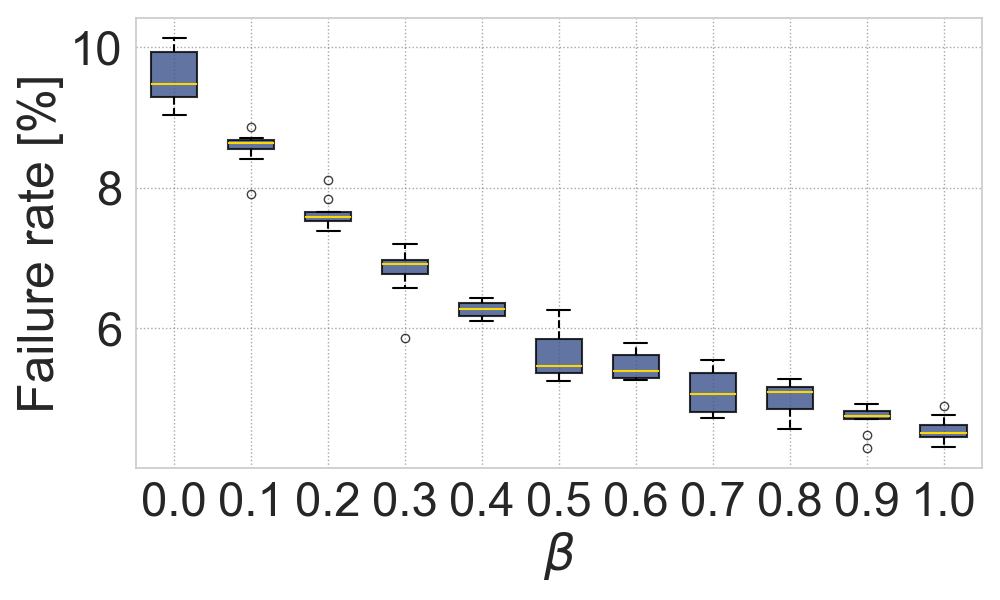
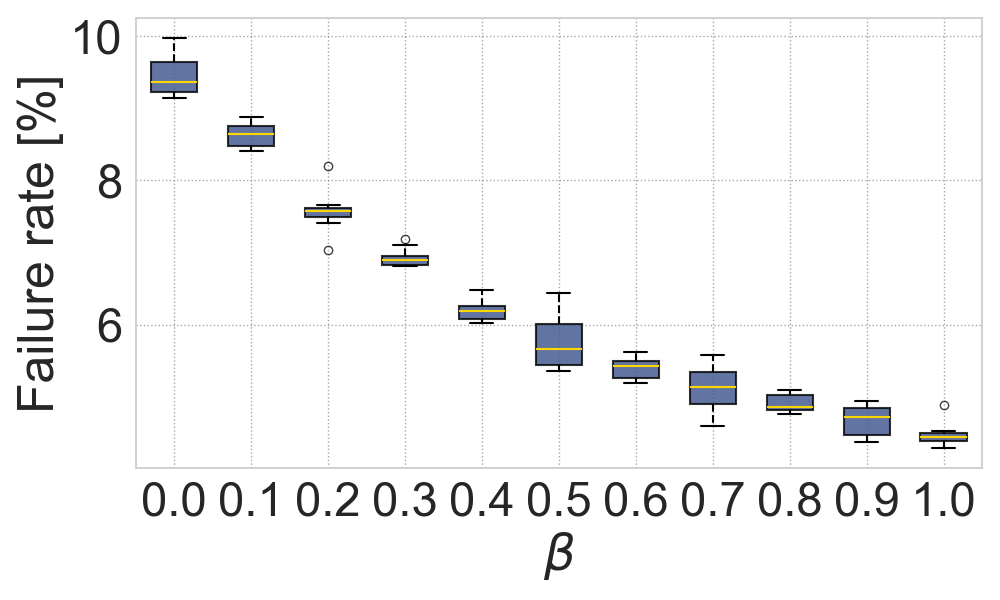
New plots cmdp and beta

diff --git a/beta/evaluation.py b/beta/evaluation.py
@@ -7,12 +7,11 @@ Computes failure rates, Gini coefficient, and global service cost.
 
 Usage:
     uv run beta/evaluation.py --categories 2
-    uv run beta/evaluation.py --categories 5 --seeds 100 110 --save-detailed
+    uv run beta/evaluation.py --categories 5 --seeds 100 110
 
 Output (saved to results/):
     results/gini_{M}_cat_{N}seeds.npy
     results/cost_{M}_cat_{N}seeds.npy
-    (with --save-detailed):
     results/cost_reb_{M}_cat_{N}seeds.npy
     results/cost_fail_{M}_cat_{N}seeds.npy
     results/cost_bikes_{M}_cat_{N}seeds.npy
@@ -53,11 +52,6 @@ def main():
         type=int,
         default=[100, 110],
         help="Seed range [start, end) (default: 100 110)",
-    )
-    parser.add_argument(
-        "--save-detailed",
-        action="store_true",
-        help="Save detailed cost breakdowns (rebalancing, failures, bikes, initial_bikes)",
     )
     args = parser.parse_args()
 
@@ -164,7 +158,7 @@ def main():
                     daily_global_failures.append(global_fails)
                     daily_global_costs.append(costs)
 
-                if day == 0 and args.save_detailed:
+                if day == 0:
                     initial_bikes[index].append(
                         sum(G.nodes[i]["bikes"] for i in range(num_stations))
                     )
@@ -211,13 +205,12 @@ def main():
 
             gini_values_tot[index].append(gini)
             costs_tot[index].append(total_cost)
-            if args.save_detailed:
-                costs_rebalancing[index].append(np.mean(daily_global_costs))
-                costs_failures[index].append(failure_rate_global)
-                costs_bikes[index].append(n_bikes)
-                failure_rates_per_cat[index].append(
-                    [cat_failure_rates[cat] for cat in active_cats]
-                )
+            costs_rebalancing[index].append(np.mean(daily_global_costs))
+            costs_failures[index].append(failure_rate_global)
+            costs_bikes[index].append(n_bikes)
+            failure_rates_per_cat[index].append(
+                [cat_failure_rates[cat] for cat in active_cats]
+            )
 
             print(f"Gini={gini:.3f}, Cost={total_cost:.2f}")
 
@@ -231,31 +224,30 @@ def main():
     )
     np.save(os.path.join(results_dir, f"cost_{num_seeds}seeds.npy"), costs_tot)
 
-    if args.save_detailed:
-        np.save(
-            os.path.join(results_dir, f"cost_reb_{num_seeds}seeds.npy"),
-            costs_rebalancing,
-        )
-        np.save(
-            os.path.join(results_dir, f"cost_fail_{num_seeds}seeds.npy"),
-            costs_failures,
-        )
-        np.save(
-            os.path.join(results_dir, f"cost_bikes_{num_seeds}seeds.npy"),
-            costs_bikes,
-        )
-        np.save(
-            os.path.join(results_dir, f"initial_bikes_{num_seeds}seeds.npy"),
-            initial_bikes,
-        )
-        # Shape: (num_betas, num_seeds, num_cats)
-        np.save(
-            os.path.join(
-                results_dir,
-                f"failure_rates_per_cat_{num_seeds}seeds.npy",
-            ),
-            failure_rates_per_cat,
-        )
+    np.save(
+        os.path.join(results_dir, f"cost_reb_{num_seeds}seeds.npy"),
+        costs_rebalancing,
+    )
+    np.save(
+        os.path.join(results_dir, f"cost_fail_{num_seeds}seeds.npy"),
+        costs_failures,
+    )
+    np.save(
+        os.path.join(results_dir, f"cost_bikes_{num_seeds}seeds.npy"),
+        costs_bikes,
+    )
+    np.save(
+        os.path.join(results_dir, f"initial_bikes_{num_seeds}seeds.npy"),
+        initial_bikes,
+    )
+    # Shape: (num_betas, num_seeds, num_cats)
+    np.save(
+        os.path.join(
+            results_dir,
+            f"failure_rates_per_cat_{num_seeds}seeds.npy",
+        ),
+        failure_rates_per_cat,
+    )
 
 
 if __name__ == "__main__":

diff --git a/cmdp/evaluation.py b/cmdp/evaluation.py
@@ -9,14 +9,13 @@ and constraint satisfaction for constrained categories.
 Usage:
     uv run cmdp/evaluation.py --categories 2
     uv run cmdp/evaluation.py --categories 2 --r-max-values 0.20 0.25
-    uv run cmdp/evaluation.py --categories 5 --failure-cost-coef 1.0 --seeds 100 110 --save-detailed
-    uv run cmdp/evaluation.py --categories 5 --failure-cost-coef 0.0 --seeds 100 110 --save-detailed
+    uv run cmdp/evaluation.py --categories 5 --failure-cost-coef 1.0 --seeds 100 110
+    uv run cmdp/evaluation.py --categories 5 --failure-cost-coef 0.0 --seeds 100 110
 
 Output (saved to results/):
     results/gini_{M}_cat_{N}seeds.npy
     results/cost_{M}_cat_{N}seeds.npy
     results/constraint_sat_{M}_cat_{N}seeds.npy
-    (with --save-detailed):
     results/cost_reb_{M}_cat_{N}seeds.npy
     results/cost_fail_{M}_cat_{N}seeds.npy
     results/cost_bikes_{M}_cat_{N}seeds.npy
@@ -50,11 +49,6 @@ def main():
         type=int,
         default=[100, 110],
         help="Seed range [start, end) (default: 100 110)",
-    )
-    parser.add_argument(
-        "--save-detailed",
-        action="store_true",
-        help="Save detailed cost breakdowns (rebalancing, failures, bikes, initial_bikes)",
     )
     parser.add_argument(
         "--constrained-cats",
@@ -222,7 +216,7 @@ def main():
                                 period_fails_today[cat][p]
                             )
 
-                if day == 0 and args.save_detailed:
+                if day == 0:
                     initial_bikes[r_idx].append(
                         sum(G.nodes[i]["bikes"] for i in range(num_stations))
                     )
@@ -282,10 +276,9 @@ def main():
             gini_values_tot[r_idx].append(gini)
             costs_tot[r_idx].append(total_cost)
             constraint_satisfaction[r_idx].append(satisfied)
-            if args.save_detailed:
-                costs_rebalancing[r_idx].append(np.mean(daily_global_costs))
-                costs_failures[r_idx].append(failure_rate_global)
-                costs_bikes[r_idx].append(n_bikes)
+            costs_rebalancing[r_idx].append(np.mean(daily_global_costs))
+            costs_failures[r_idx].append(failure_rate_global)
+            costs_bikes[r_idx].append(n_bikes)
 
             # Store per-category per-period failure rates
             seed_idx = seeds.index(seed)
@@ -325,23 +318,22 @@ def main():
         failure_rates_per_cat_period,
     )
 
-    if args.save_detailed:
-        np.save(
-            os.path.join(results_dir, f"cost_reb_{num_seeds}seeds_{bf_token}.npy"),
-            costs_rebalancing,
-        )
-        np.save(
-            os.path.join(results_dir, f"cost_fail_{num_seeds}seeds_{bf_token}.npy"),
-            costs_failures,
-        )
-        np.save(
-            os.path.join(results_dir, f"cost_bikes_{num_seeds}seeds_{bf_token}.npy"),
-            costs_bikes,
-        )
-        np.save(
-            os.path.join(results_dir, f"initial_bikes_{num_seeds}seeds_{bf_token}.npy"),
-            initial_bikes,
-        )
+    np.save(
+        os.path.join(results_dir, f"cost_reb_{num_seeds}seeds_{bf_token}.npy"),
+        costs_rebalancing,
+    )
+    np.save(
+        os.path.join(results_dir, f"cost_fail_{num_seeds}seeds_{bf_token}.npy"),
+        costs_failures,
+    )
+    np.save(
+        os.path.join(results_dir, f"cost_bikes_{num_seeds}seeds_{bf_token}.npy"),
+        costs_bikes,
+    )
+    np.save(
+        os.path.join(results_dir, f"initial_bikes_{num_seeds}seeds_{bf_token}.npy"),
+        initial_bikes,
+    )
 
 
 if __name__ == "__main__":

diff --git a/beta/plots/failure_rates_by_beta.py b/beta/plots/failure_rates_by_beta.py
@@ -6,7 +6,7 @@ Plots per-category failure rates vs beta, with rebalancing costs on
 a secondary y-axis. Similar to preliminary_studies/failure_rate_analysis
 but for 5 categories.
 
-Requires: failure_rates_per_cat_{M}_cat_{N}seeds.npy from evaluation.py --save-detailed
+Requires: failure_rates_per_cat_{M}_cat_{N}seeds.npy from evaluation.py
 
 Usage:
     uv run beta/plots/failure_rates_by_beta.py --categories 5

diff --git a/cmdp/plots/generate_all.py b/cmdp/plots/generate_all.py
@@ -1,4 +1,10 @@
-"""Generate all CMDP plots for a given category scenario."""
+"""
+Generate all CMDP plots for a given category scenario.
+
+Usage:
+    uv run cmdp/plots/generate_all.py --categories 5 --failure-cost-coef 1.0
+    uv run cmdp/plots/generate_all.py --categories 5 --failure-cost-coef 0.0
+"""
 
 import argparse
 import subprocess

diff --git a/cmdp/plots/lambda_convergence.py b/cmdp/plots/lambda_convergence.py
@@ -1,3 +1,11 @@
+"""
+CMDP lambda convergence plots from saved lambda histories.
+
+Usage:
+    uv run cmdp/plots/lambda_convergence.py --categories 5 --failure-cost-coef 1.0
+    uv run cmdp/plots/lambda_convergence.py --categories 5 --failure-cost-coef 0.0 --save
+"""
+
 import argparse
 import os
 import pickle

diff --git a/cmdp/plots/paretoplots.py b/cmdp/plots/paretoplots.py
@@ -1,3 +1,11 @@
+"""
+CMDP Pareto-style cost vs Gini plot from evaluation outputs.
+
+Usage:
+    uv run cmdp/plots/paretoplots.py --categories 5 --failure-cost-coef 1.0
+    uv run cmdp/plots/paretoplots.py --categories 5 --failure-cost-coef 0.0 --save
+"""
+
 import argparse
 import os
 

diff --git a/cmdp/plots/boxplots.py b/cmdp/plots/boxplots.py
@@ -1,3 +1,11 @@
+"""
+CMDP boxplots (Gini and cost components) from evaluation outputs.
+
+Usage:
+    uv run cmdp/plots/boxplots.py --categories 5 --failure-cost-coef 1.0
+    uv run cmdp/plots/boxplots.py --categories 5 --failure-cost-coef 0.0 --save
+"""
+
 import argparse
 import os
 

diff --git a/cmdp/training.py b/cmdp/training.py
@@ -1,3 +1,11 @@
+"""
+CMDP training script.
+
+Usage:
+    uv run cmdp/training.py --r-max 0.075 --categories 5 --seed 100
+    uv run cmdp/training.py --r-max 0.075 --categories 5 --seed 100 --failure-cost-coef 0.0
+"""
+
 import argparse
 import json
 import os

diff --git a/cmdp/run_training.py b/cmdp/run_training.py
@@ -1,3 +1,12 @@
+"""
+Launch CMDP training sweep across all configured r_max values.
+
+Runs both base-failure settings (failure_cost_coef `1.0` and `0.0`).
+
+Usage:
+    uv run cmdp/run_training.py
+"""
+
 import os
 import subprocess
 import sys

diff --git a/beta/plots/learning_curves.py b/beta/plots/learning_curves.py
@@ -1,3 +1,11 @@
+"""
+Beta learning curve plots from per-seed training outputs.
+
+Usage:
+    uv run beta/plots/learning_curves.py --categories 5
+    uv run beta/plots/learning_curves.py --categories 5 --save
+"""
+
 import argparse
 import os
 

diff --git a/beta/plots/generate_all.py b/beta/plots/generate_all.py
@@ -1,4 +1,9 @@
-"""Generate all beta plots for a given category scenario."""
+"""
+Generate all beta plots for a given category scenario.
+
+Usage:
+    uv run beta/plots/generate_all.py --categories 5
+"""
 
 import argparse
 import subprocess

diff --git a/beta/plots/paretoplots.py b/beta/plots/paretoplots.py
@@ -1,3 +1,11 @@
+"""
+Beta Pareto-style cost vs Gini plot from evaluation outputs.
+
+Usage:
+    uv run beta/plots/paretoplots.py --categories 5
+    uv run beta/plots/paretoplots.py --categories 5 --save
+"""
+
 import argparse
 import os
 
